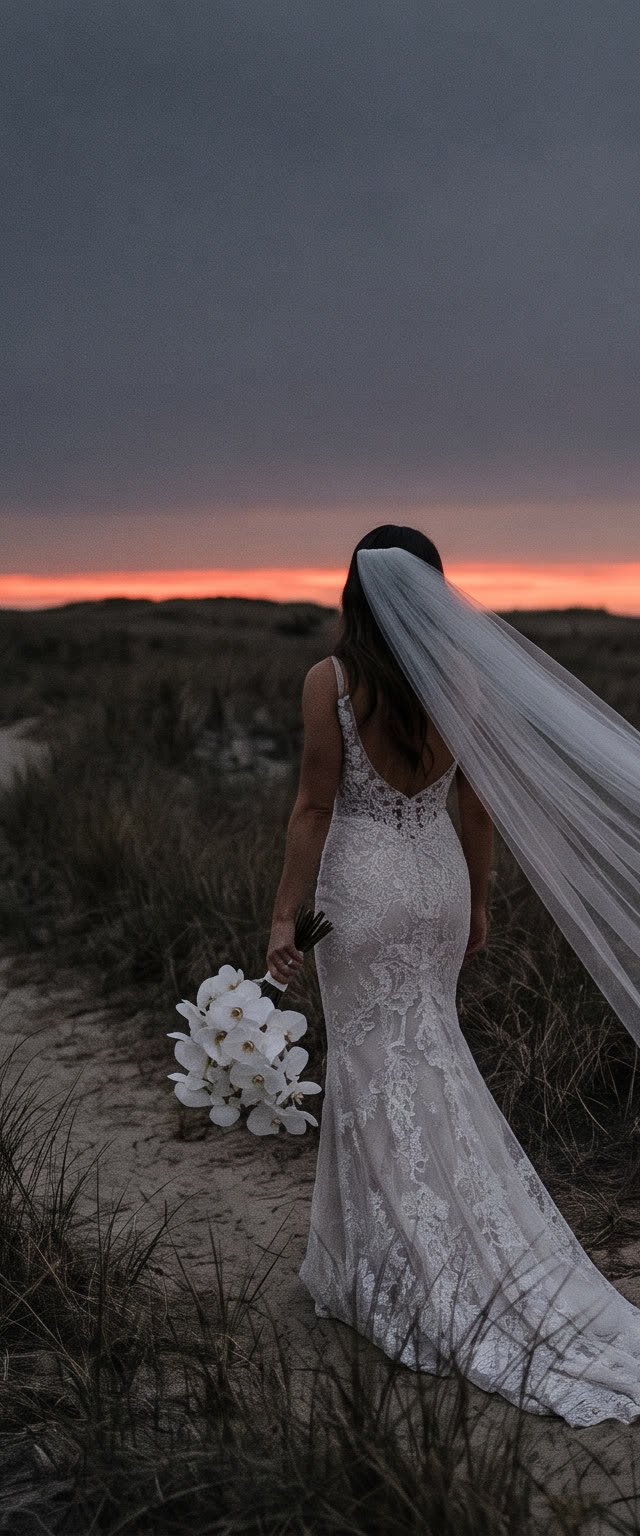
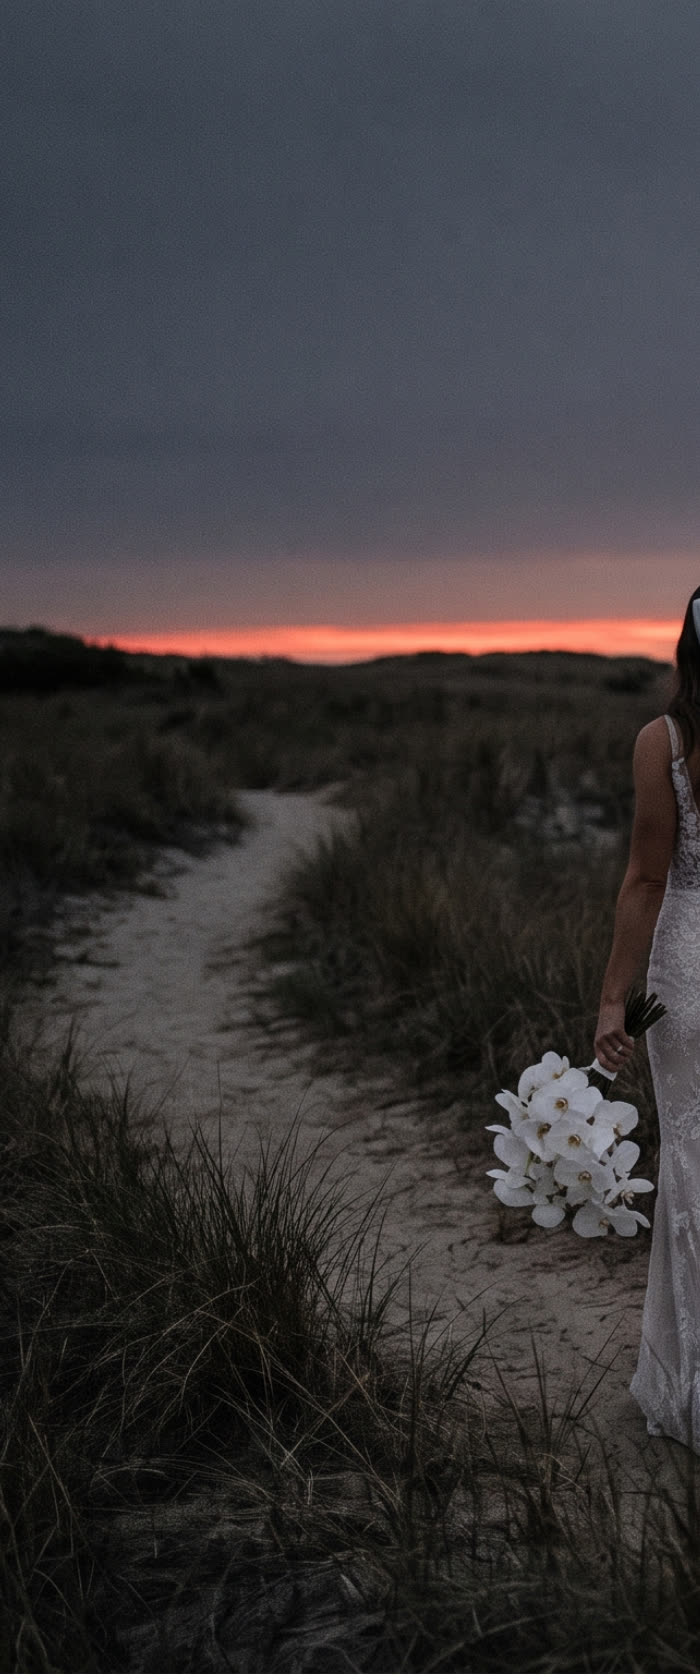
Triptyque Advantages régénéré (3000×1680) — parallaxe mobile restaurée
Photo panoramique régénérée en plus haute résolution pour intégrer,
dès la source, la marge nécessaire à la parallaxe (au lieu de la
prendre sur le contenu utile, ce qui cassait le raccord entre
panneaux — cf. les 2 correctifs précédents du 13/09/2026).

- Desktop (image) : 3 tiers égaux de 1000×1680, sans marge (inutile,
  object-cover ne rogne jamais la largeur sur un écran large).
- Mobile (mobileImage) : 3 tiers de 700×1680, centrés aux mêmes
  points que les tiers desktop mais 300px plus larges — cette marge
  est le débord qu'absorbe scale-110 pour la parallaxe (±15px)
  sans exposer le fond ni rogner le raccord.

diff --git a/src/components/home/Advantages.tsx b/src/components/home/Advantages.tsx
@@ -23,24 +23,25 @@ const PANELS: {
   tagline: string
 }[] = [
   {
-    // Triptyque (13/09/2026) : les 3 tiers d'une seule photo panoramique
-    // (2752×1536), découpée pour que le sujet (le voile) traverse
-    // visuellement les 3 panneaux — sensation de continuité pendant le
-    // glissement horizontal. `gallery-1.jpg`/`gallery-*-mobile.jpg`
-    // (partagés avec Gallery.tsx plus bas) ne sont plus utilisés ici, mais
-    // pas supprimés.
+    // Triptyque (13/09/2026, régénéré en 3000×1680 le même jour pour avoir
+    // la marge nécessaire à la parallaxe — cf. doc de PARALLAX dans le
+    // composant) : le sujet (le voile) traverse visuellement les 3
+    // panneaux — sensation de continuité pendant le glissement horizontal.
+    // `gallery-1.jpg`/`gallery-*-mobile.jpg` (partagés avec Gallery.tsx plus
+    // bas) ne sont plus utilisés ici, mais pas supprimés.
     //
-    // `mobileImage` recadré à part (640×1536, ratio ~0,417) plutôt que de
-    // réutiliser `image` (917×1536, ratio ~0,597) : ce 2e ratio est plus
-    // large que celui de la plupart des écrans de téléphone, donc
-    // `object-cover` rognait aussi la LARGEUR (pas seulement la hauteur)
-    // pour remplir un viewport portrait — un rognage différent selon la
-    // hauteur exacte de chaque appareil, qui cassait le raccord entre
-    // panneaux (le voile ne se retrouvait plus à la bonne position d'un
-    // panneau à l'autre). Un ratio plus étroit que n'importe quel écran de
-    // téléphone courant garantit qu'`object-cover` ne rogne plus jamais la
-    // largeur — seulement la hauteur, ce qui ne casse pas le raccord
-    // horizontal.
+    // `image` (desktop) : 3 tiers ÉGAUX de 1000×1680 (aucune marge —
+    // `object-cover` ne rogne jamais la largeur sur un écran large, cf. plus
+    // bas). `mobileImage` : 3 tiers de 700×1680 (ratio ~0,417, plus étroit
+    // que n'importe quel écran de téléphone courant — garantit qu'
+    // `object-cover` ne rogne jamais la largeur non plus, seulement la
+    // hauteur) MAIS centrés aux mêmes points que les tiers desktop avec
+    // 300px de marge en plus (700 au lieu de 400 en largeur équivalente) :
+    // cette marge est le débord qu'absorbe `scale-110` pour la parallaxe
+    // (PARALLAX) sans jamais exposer le fond ni rogner le raccord entre
+    // panneaux (contrairement au 1er essai du 13/09/2026, où la marge était
+    // prise SUR le contenu utile faute d'avoir prévu cette marge dès le
+    // départ dans la photo source).
     image: '/advantages-1.jpg',
     mobileImage: '/advantages-1-mobile.jpg',
     title: ['La', 'surprise'],
@@ -101,20 +102,14 @@ export default function Advantages() {
       // de hold d'un panneau (GSAP conserve simplement la valeur courante) —
       // le texte apparaît entièrement PENDANT ce palier, avant que la
       // transition vers le panneau suivant ne démarre.
-      // Parallaxe interne desktop uniquement — cf. échange du 13/09/2026 :
-      // le débord nécessaire (`scale-125`) pour absorber le déplacement sans
-      // exposer le fond ronge justement les bords des images, exactement la
-      // zone qui raccorde deux panneaux entre eux dans le triptyque — cassant
-      // le raccord malgré 2 correctifs précédents (largeur DOM mesurée,
-      // recadrages mobiles dédiés). La photo source ne fait que 1536px de
-      // haut : impossible d'élargir davantage les recadrages mobiles pour
-      // compenser cette perte sans dépasser le ratio le plus étroit garanti
-      // sûr pour tous les téléphones (cf. doc de `mobileImage` plus haut).
-      // Aucune parallaxe sur mobile = aucun débord nécessaire = le raccord
-      // reste pixel-parfait. Sur desktop, la photo occupe toute la largeur
-      // (aucun rognage web-cover, cf. même doc), donc perdre 12,5% sur les
-      // bords ne mange jamais un raccord visible.
-      const PARALLAX = isMobile ? 0 : 40
+      // Amplitude de la parallaxe interne — cf. doc de `mobileImage` plus
+      // haut : la marge nécessaire pour l'absorber sans exposer le fond est
+      // désormais prise sur une marge prévue dès la photo source (300px de
+      // large en plus par tier mobile), pas sur le contenu utile — le
+      // raccord entre panneaux reste donc intact avec la parallaxe active.
+      // ±15px sur mobile reste dans le budget de `scale-110` (10 % de
+      // débord) pour un viewport d'au moins 360px de large.
+      const PARALLAX = isMobile ? 15 : 40
       const HOLD = 1
       const TRANSITION = 0.5
       const holdStart = (i: number) => i * (HOLD + TRANSITION)
@@ -204,14 +199,13 @@ export default function Advantages() {
                 src={isMobile && panel.mobileImage ? panel.mobileImage : panel.image}
                 alt=""
                 loading="lazy"
-                // scale-125 (desktop) donne du débord pour la parallaxe ;
-                // sur mobile, sans parallaxe (cf. doc de PARALLAX plus haut),
-                // scale-105 suffit (juste une marge de sécurité subpixel) —
-                // un zoom minimal préserve le raccord entre panneaux du
-                // triptyque, que scale-125 aurait rogné sur les bords.
+                // scale-125 (desktop, tiers sans marge) / scale-110 (mobile,
+                // tiers avec 300px de marge intégrée, cf. doc de
+                // `mobileImage` plus haut) — le débord nécessaire à la
+                // parallaxe (PARALLAX) sans jamais exposer le fond.
                 className={cn(
                   'adv-img absolute inset-0 h-full w-full object-cover will-change-transform',
-                  isMobile ? 'scale-105' : 'scale-125',
+                  isMobile ? 'scale-110' : 'scale-125',
                 )}
               />
               <div className="absolute inset-0 bg-anthracite-950/55" />
